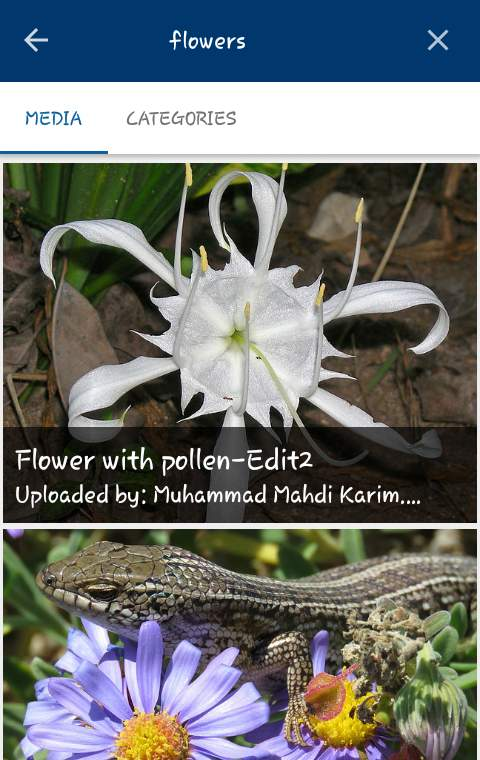
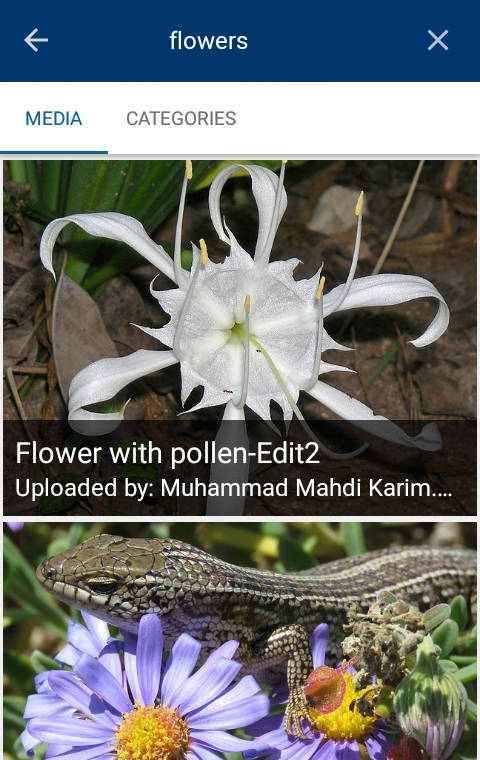
Replace screen shots with ones that use default system font
The Rosemary looks nice but might not suit well for the website.
So, update the screenshots to use the default system font.

While at it, remove the unused and obsolete screen shots. Also,
highlight the feature that shows ongoing campaigs to users in the
home page.

diff --git a/index.html b/index.html
@@ -188,18 +188,22 @@
                     <div class="item">
                         <div class="item-image">
                             <img class="feature-image"
-                                 src="images/screen-home-contributions.jpeg"
-                                 alt="Contributions screen which features users' contributions."
-                                 title="Contributions screen which features users' contributions."
+                                 src="images/screen-home-contributions-with-campaigns.jpeg"
+                                 alt="Contributions screen which features users' contributions and ongoing campaigns."
+                                 title="Contributions screen which features users' contributions and ongoing campaigns."
                             />
                         </div>
                         <div class="hover-bar"></div>
                         <h3 class="item-header">
-                            View your contributions
+                            View your contributions and ongoing campaigns
+                            <span class="badge badge-pill badge-primary">New</span>
                         </h3>
                         <p class="item-text">
                             The app shows all the uploads you have made to Commons.
                             This is a great way to easily view your contributions.
+                            Further, you could get to know about ongoing campaigns
+                            from within the app. You can tap on the campaign banner
+                            in the app to learn more about it.
                         </p>
                     </div>
                 </div>
